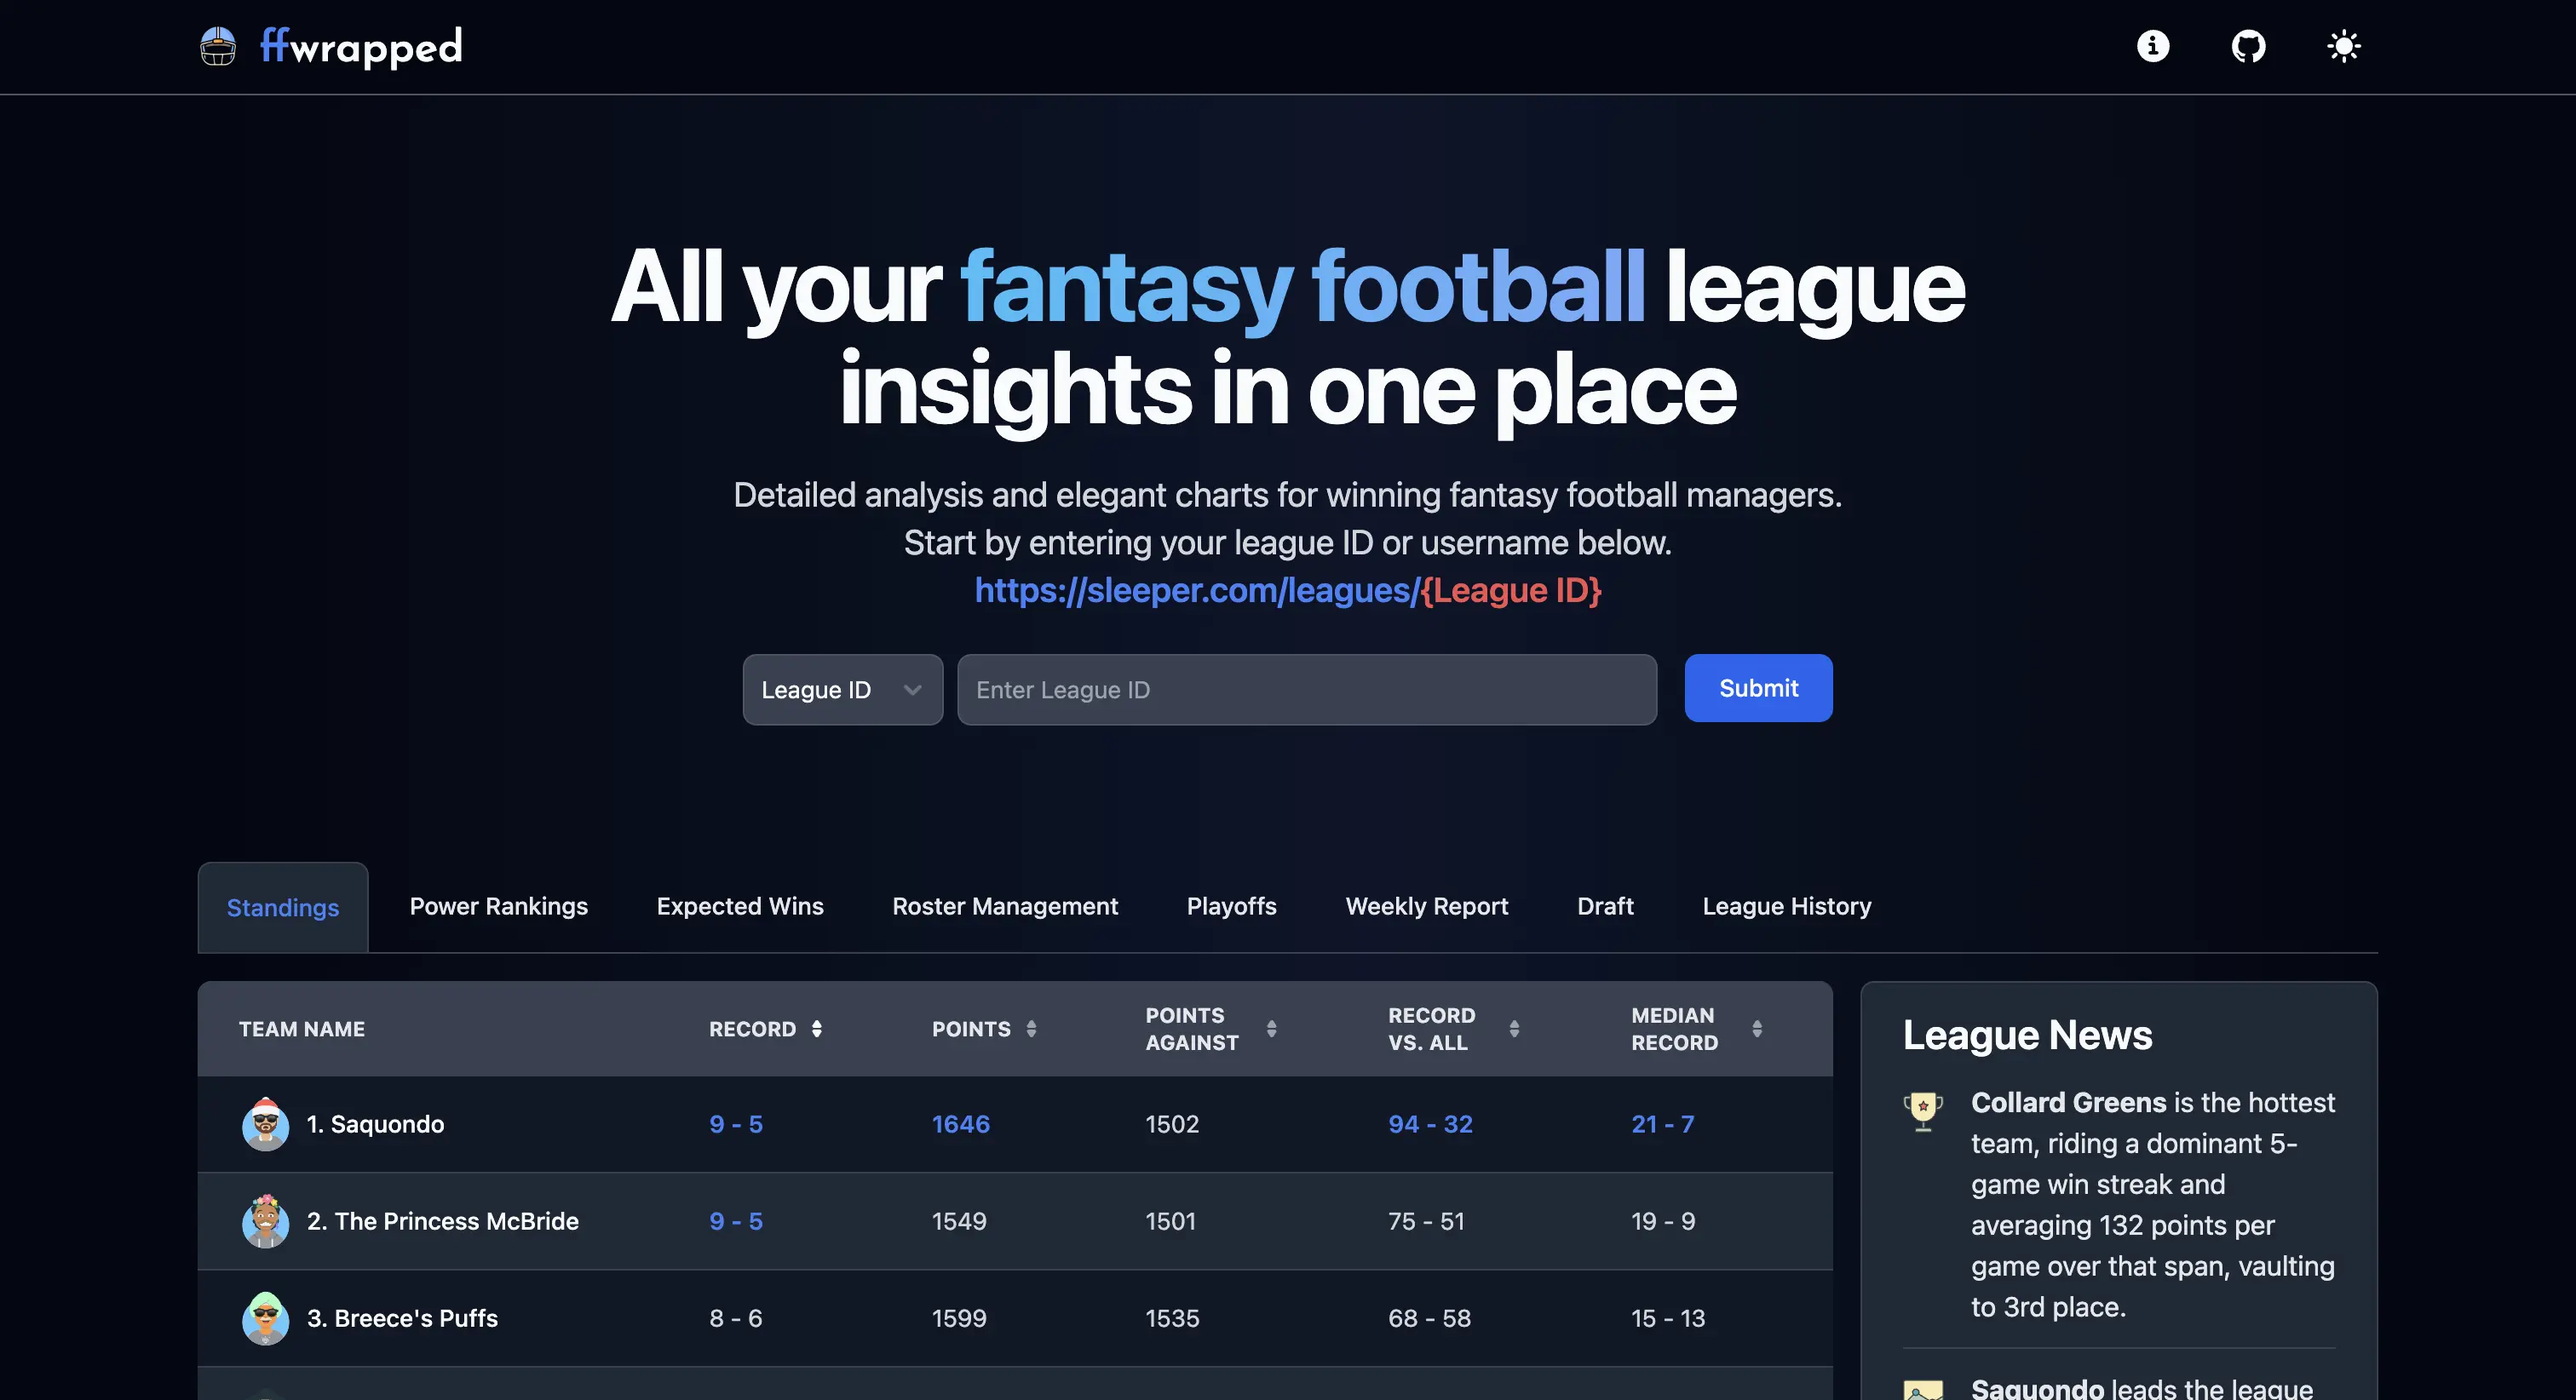
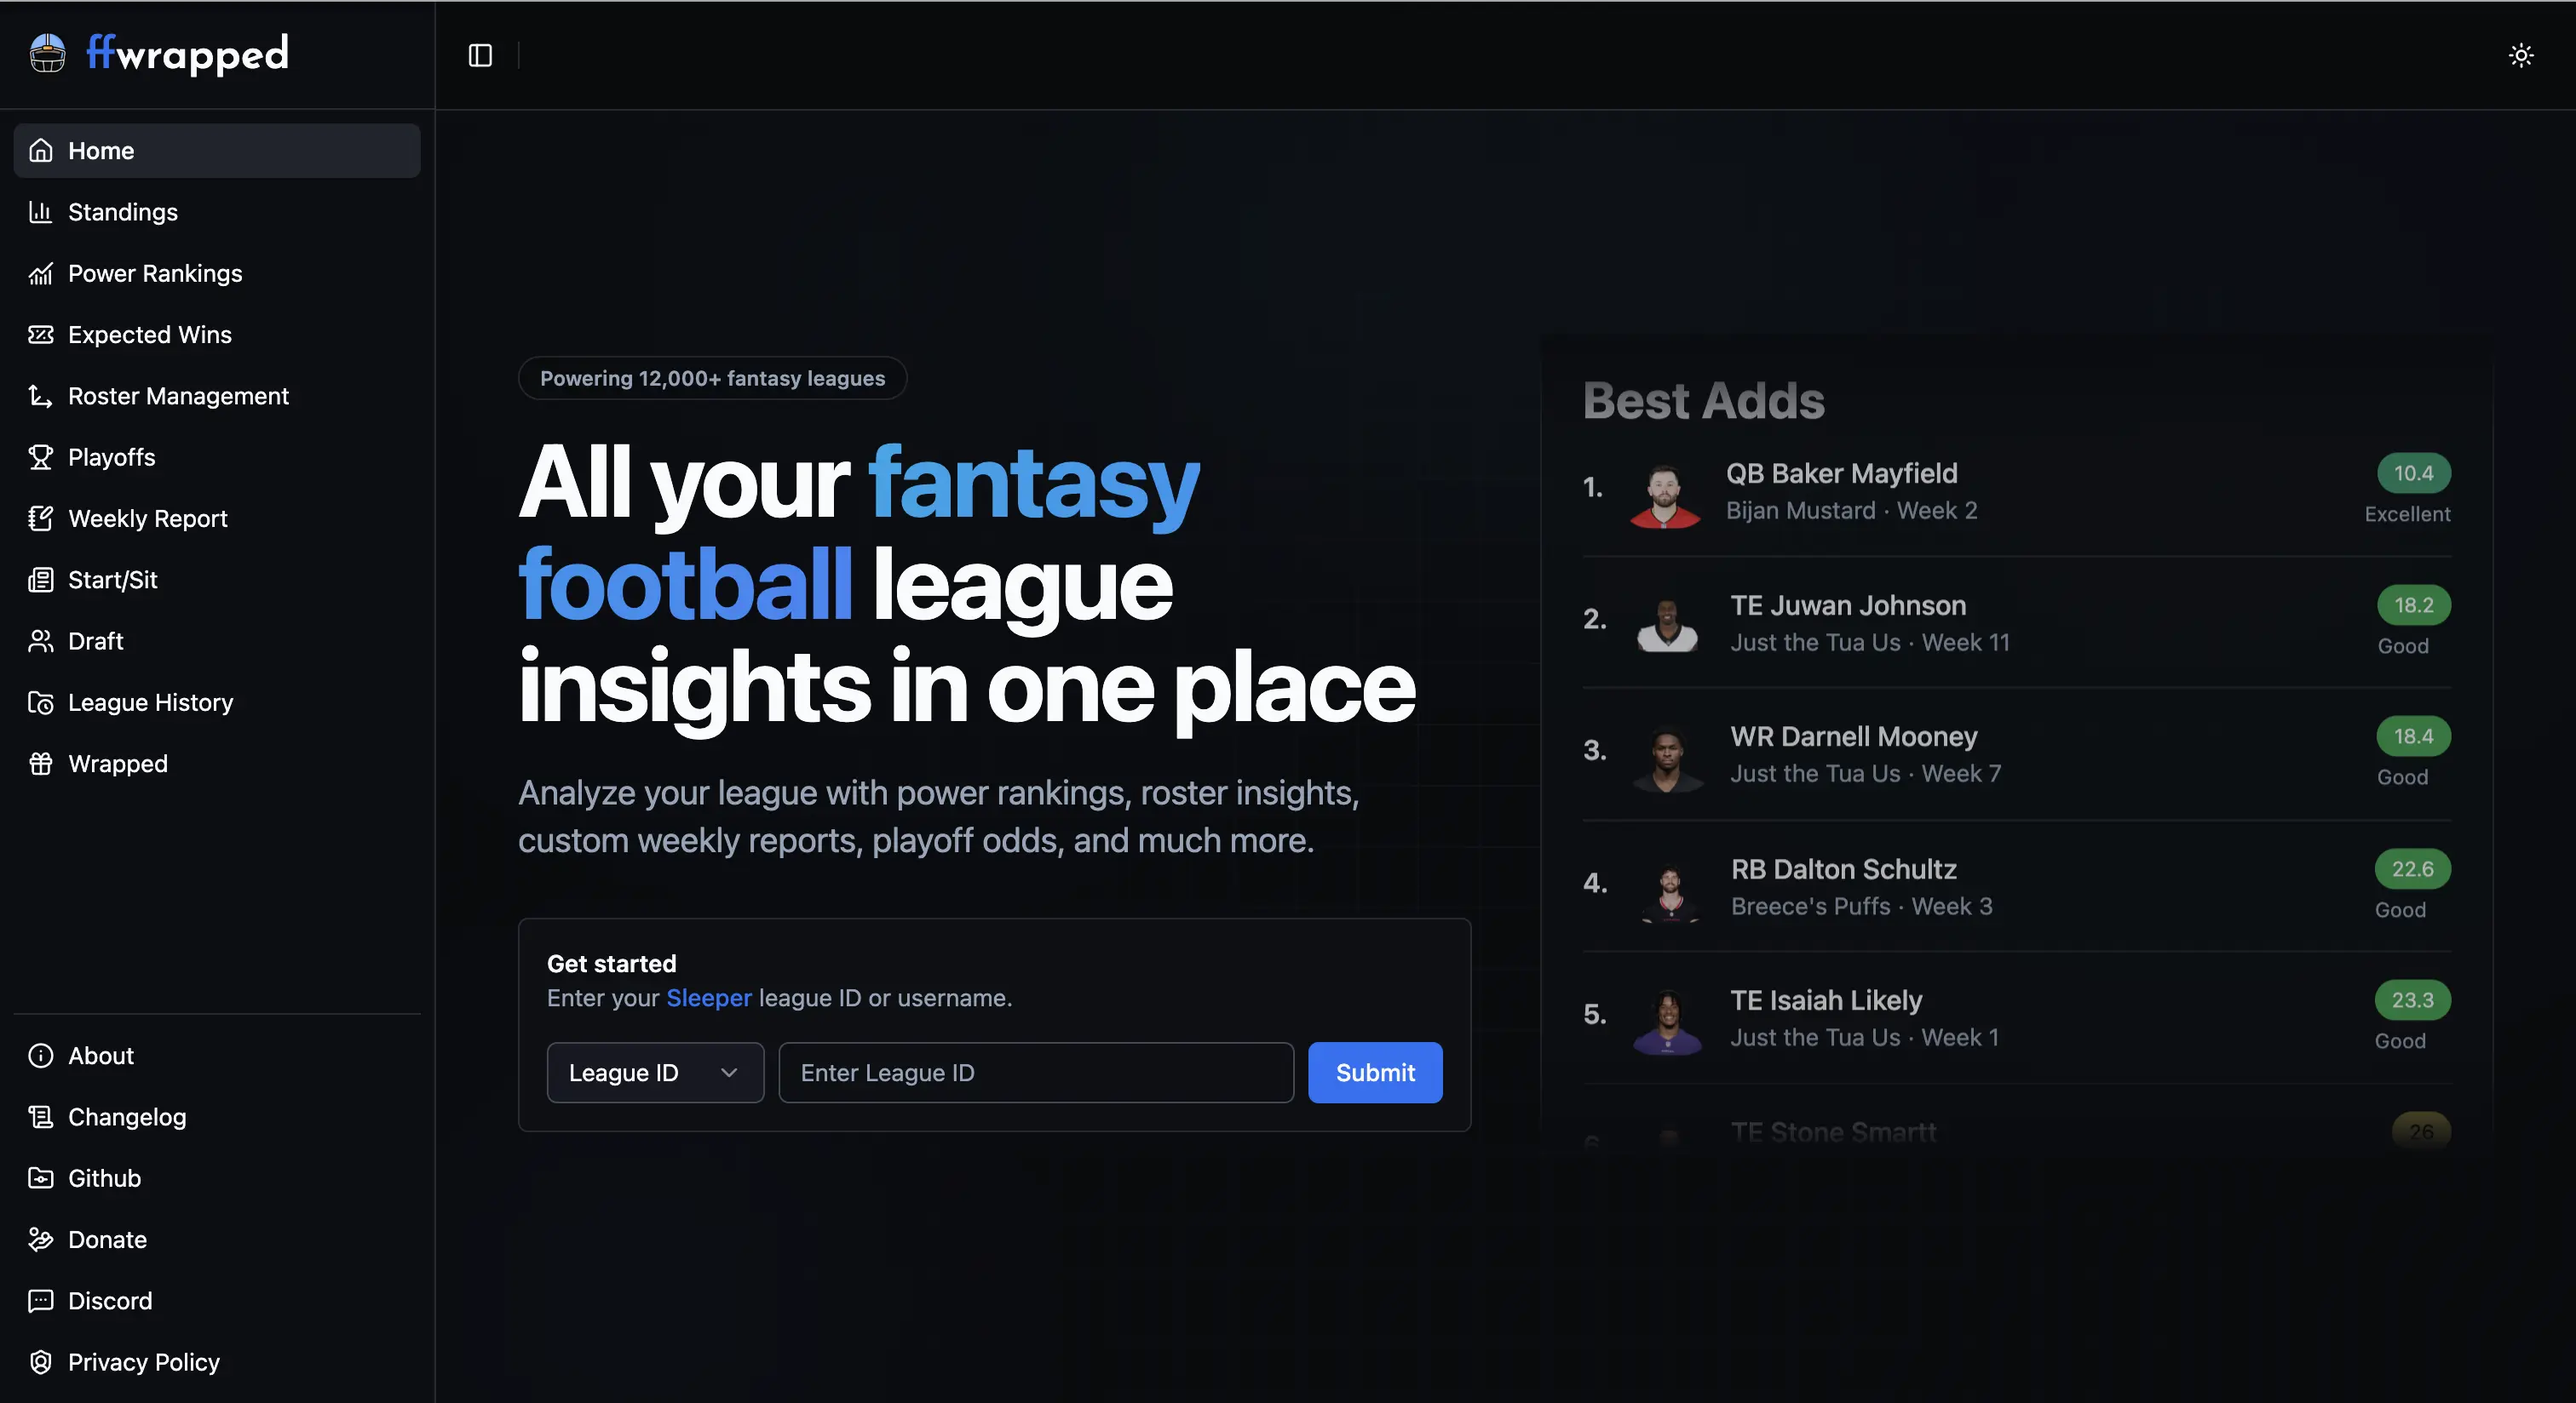
Update changelog & homepage screenshot

diff --git a/src/views/Changelog.vue b/src/views/Changelog.vue
@@ -17,6 +17,17 @@ onMounted(() => {
 // this should eventually be moved to the server side
 const data = [
   {
+    date: "2/20/26",
+    content: [
+      {
+        type: "Update",
+        text: [
+          "Site has been completely redesigned to use a more user friendly side bar navigation.",
+        ],
+      },
+    ],
+  },
+  {
     date: "12/30/25",
     content: [
       {
